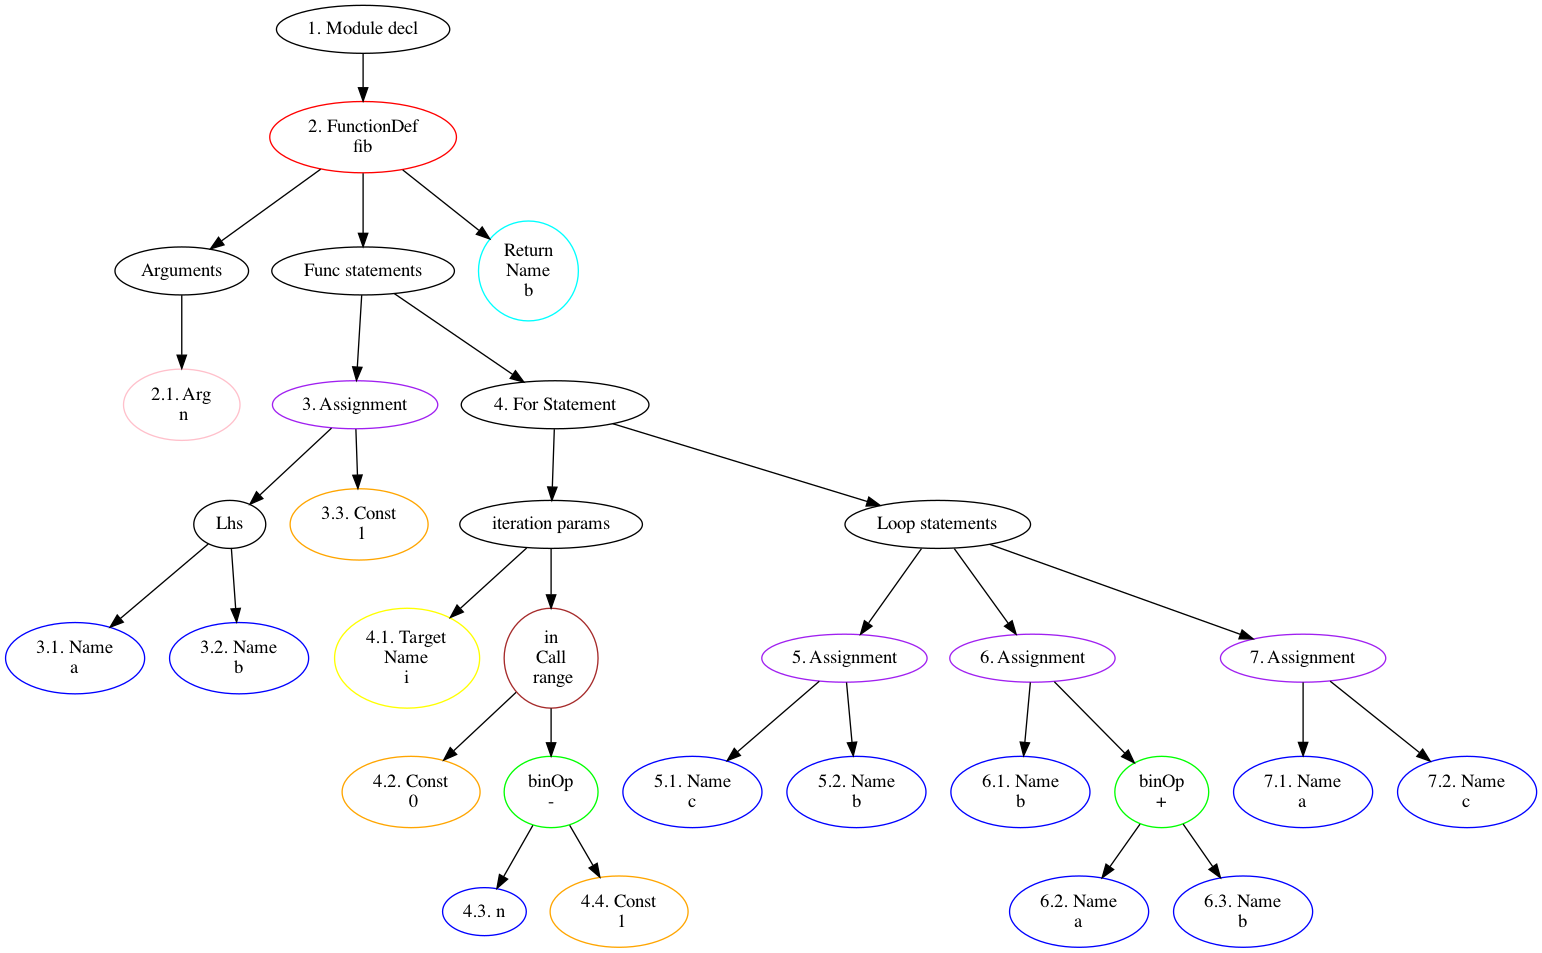
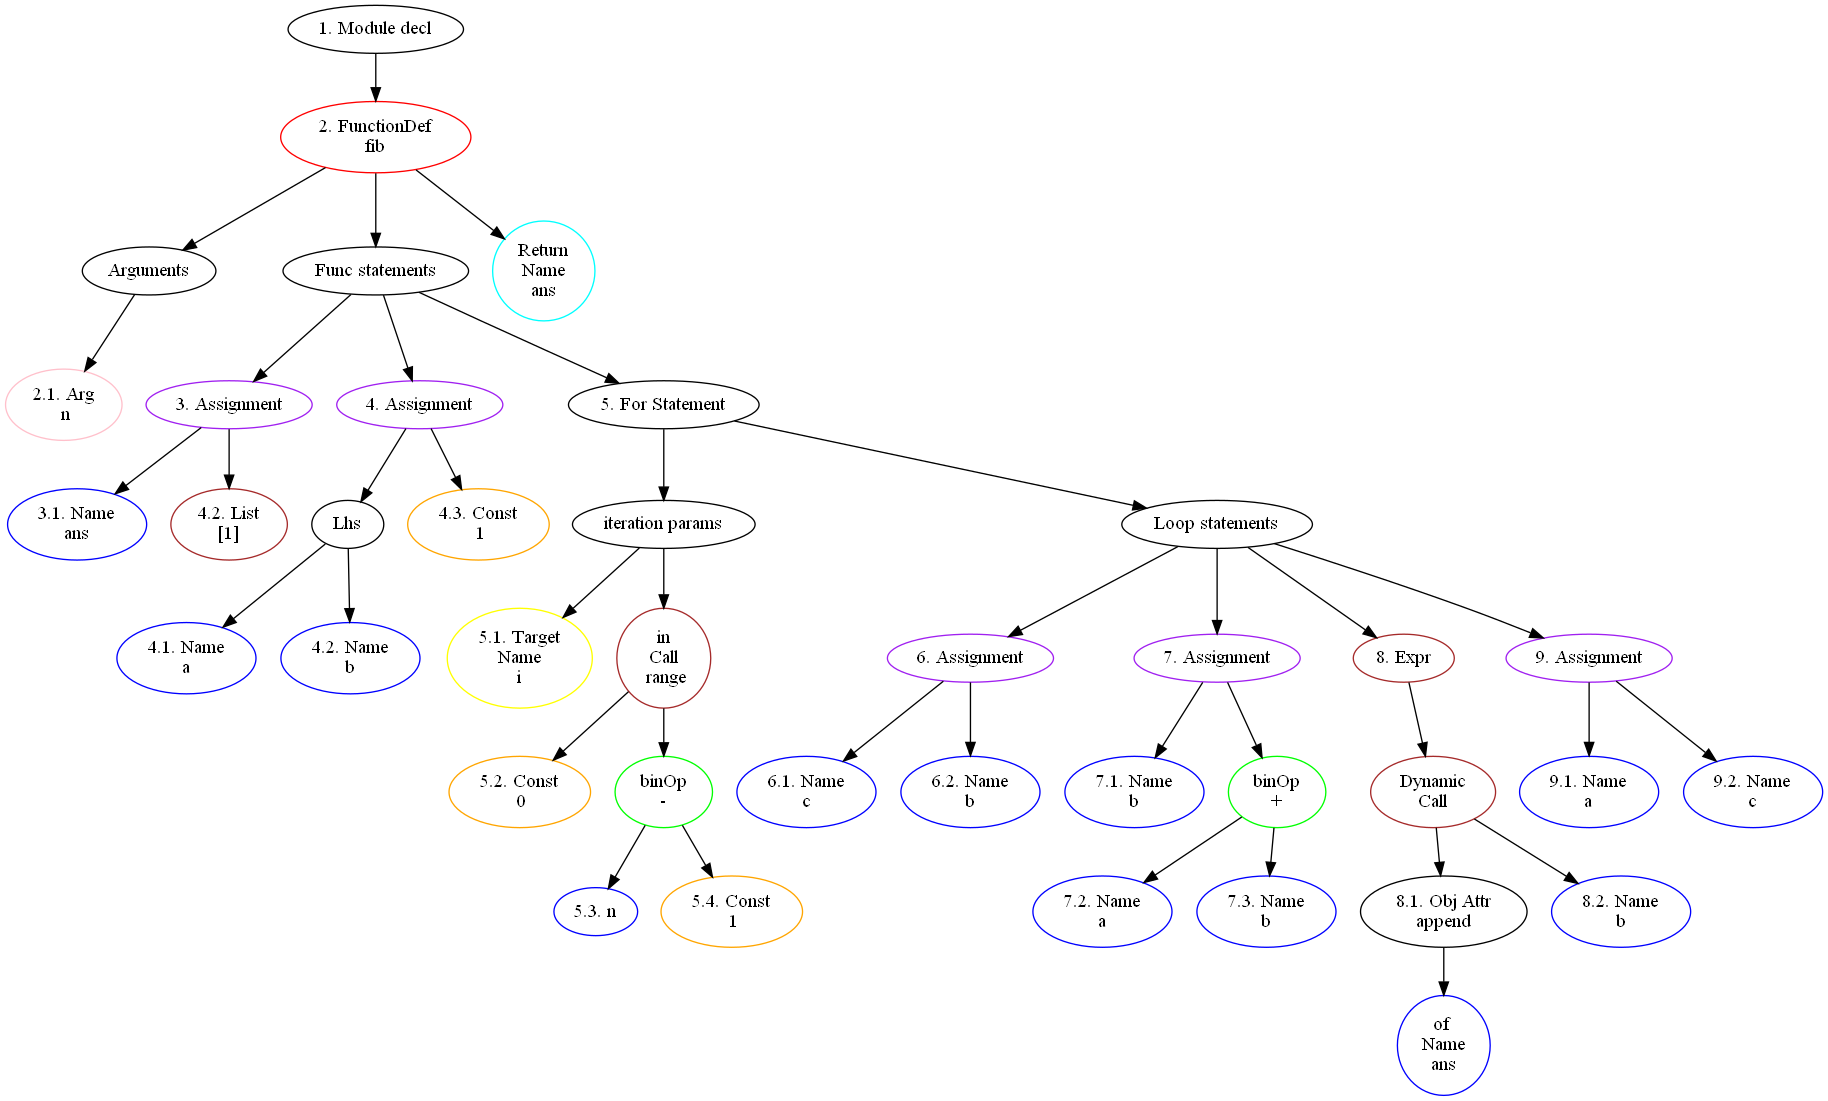
Consider all n fib numbers, not one

diff --git a/hw_1/printer.py b/hw_1/printer.py
@@ -18,7 +18,7 @@ class Traverser:
 
         self.mapping = {
             ast.Module: self.visit_module,
-            ast.FunctionDef: self.visitFunc,
+            ast.FunctionDef: self.visit_func,
             ast.arguments: self.visit_args,
             ast.Assign: self.visit_assign,
             ast.BinOp: self.visit_binop,
@@ -26,7 +26,10 @@ class Traverser:
             ast.Constant: self.visit_const,
             ast.Return: self.visit_return,
             ast.Name: self.visit_name,
-            ast.Call: self.visit_call
+            ast.Call: self.visit_call,
+            ast.List: self.visit_list,
+            ast.Expr: self.visit_expr,
+            ast.Attribute: self.visit_attribute
         }
 
         self.opDict = {
@@ -49,7 +52,9 @@ class Traverser:
             ast.Assign: "purple",
             ast.BinOp: "green",
             ast.Call: "brown",
+            ast.Expr: "brown",  # since returns value
             ast.arg: "pink",
+            ast.List: "brown"  # since constructor call
         }
 
         self.arbit_colour = "gray"
@@ -105,11 +110,48 @@ class Traverser:
         # print(f"const: {el.value}")
         return f"Const\n {el.value}"
 
+    def visit_list(self, el: ast.List):
+        node = f"{self.stmt_count}.{self.local_count}. List\n{ast.unparse(el)}"
+        self.local_count += 1
+        self.G.add_node(node, color=self.colours.get(type(el)))
+        self.G.add_edge(self.parent, node)
+        return node
+
+    def visit_expr(self, el: ast.Expr):
+        self.local_count = 1
+        node = f"{self.stmt_count}. Expr"
+        self.stmt_count += 1
+        c = self.colours.get(type(el))
+        self.G.add_node(node, color=c)
+        self.G.add_edge(self.parent, node)
+        prev_p = self.parent
+        self.parent = node
+        self.visit_elem(el.value)
+        self.parent = prev_p
+
+    def visit_attribute(self, el: ast.Attribute):
+        node = f"{self.stmt_count - 1}.{self.local_count}. Obj Attr\n{el.attr}"
+        self.G.add_node(node)
+        self.G.add_edge(self.parent, node)
+        self.local_count += 1
+        nd = f"of \n{self.visit_elem(el.value)}"
+        self.G.add_node(nd, color=self.colours.get(type(el.value)))
+        self.G.add_edge(node, nd)
+
     def visit_call(self, call: ast.Call):
-        node = f"{self.op_pref}\nCall\n {self.visit_elem(call.func)}"
+        if type(call.func) is ast.Attribute:
+            node = f"Dynamic\nCall"
+        else:
+            node = f"{self.op_pref}\nCall\n {self.visit_elem(call.func)}"
         c = self.colours.get(type(call))
         self.G.add_node(node, color=c)
         self.G.add_edge(self.parent, node)
+
+        if type(call.func) is ast.Attribute:
+            prev_p = self.parent
+            self.parent = node
+            self.visit_elem(call.func)
+            self.parent = prev_p
 
         if len(call.args) != 0:
             prev_p = self.parent
@@ -126,7 +168,7 @@ class Traverser:
                     self.visit_elem(i)
                     self.parent = prev_p
 
-    def visitFunc(self, func: ast.FunctionDef):
+    def visit_func(self, func: ast.FunctionDef):
         node = f"{self.stmt_count}. FunctionDef\n{func.name}"
         self.G.add_node(node, color="red")
         self.G.add_edge(self.parent, node)
@@ -257,5 +299,5 @@ class Traverser:
         nx.draw(self.G, with_labels=True)
         # plt.show()
         p = nx.drawing.nx_pydot.to_pydot(self.G)
-        os.makedirs("hw_1/artifacts", exist_ok=True)
-        p.write_png('hw_1/artifacts/ast.png')
+        os.makedirs("artifacts", exist_ok=True)
+        p.write_png('artifacts/ast.png')

diff --git a/hw_1/main.py b/hw_1/main.py
@@ -8,7 +8,7 @@ traverser = Traverser()
 
 def process(code: str):
     res = ast.parse(code)
-    a = 1
+    # a = 1
     traverser.process(res)
     traverser.try_print()
 
@@ -16,13 +16,15 @@ def process(code: str):
 if __name__ == '__main__':
     # print(fib(7))
     program = """def fib(n):
+        ans = [1]
         a = b = 1
         for i in range(0, n - 1):
             c = b
             b = a + b
+            ans.append(b)
             a = c
             
-        return b
+        return ans
     """
 
     process(program)

diff --git a/hw_1/fib.py b/hw_1/fib.py
@@ -1,8 +1,10 @@
 def fib(n):
+    ans = [1]
     a = b = 1
     for i in range(0, n - 1):
         c = b
         b = a + b
+        ans.append(b)
         a = c
 
-    return b
+    return ans
